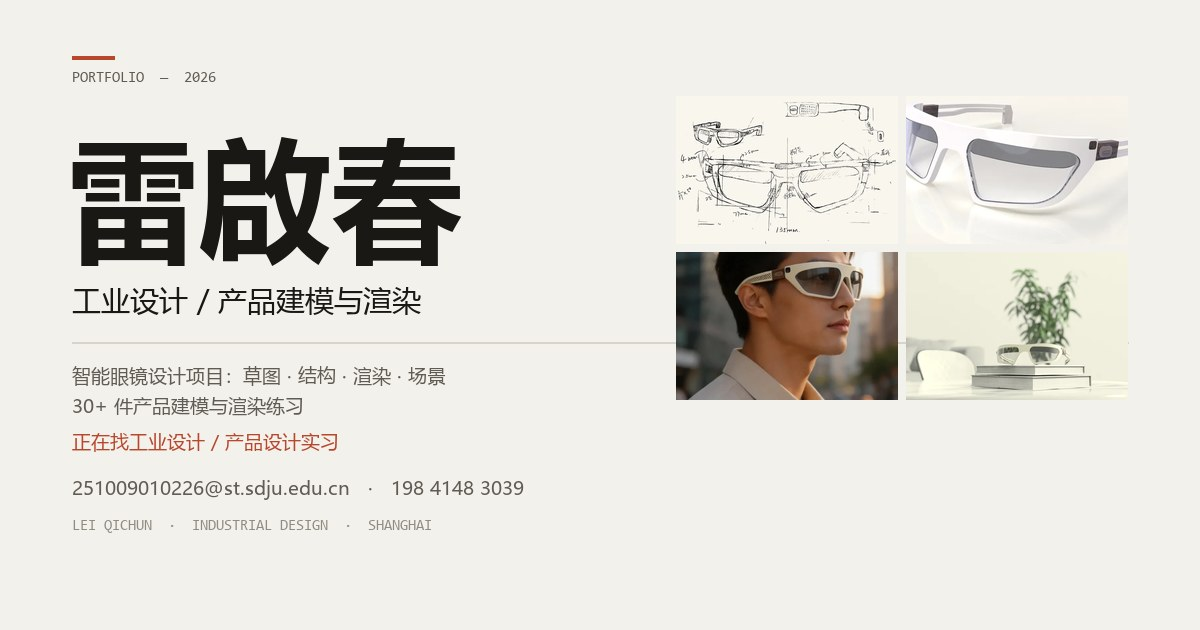
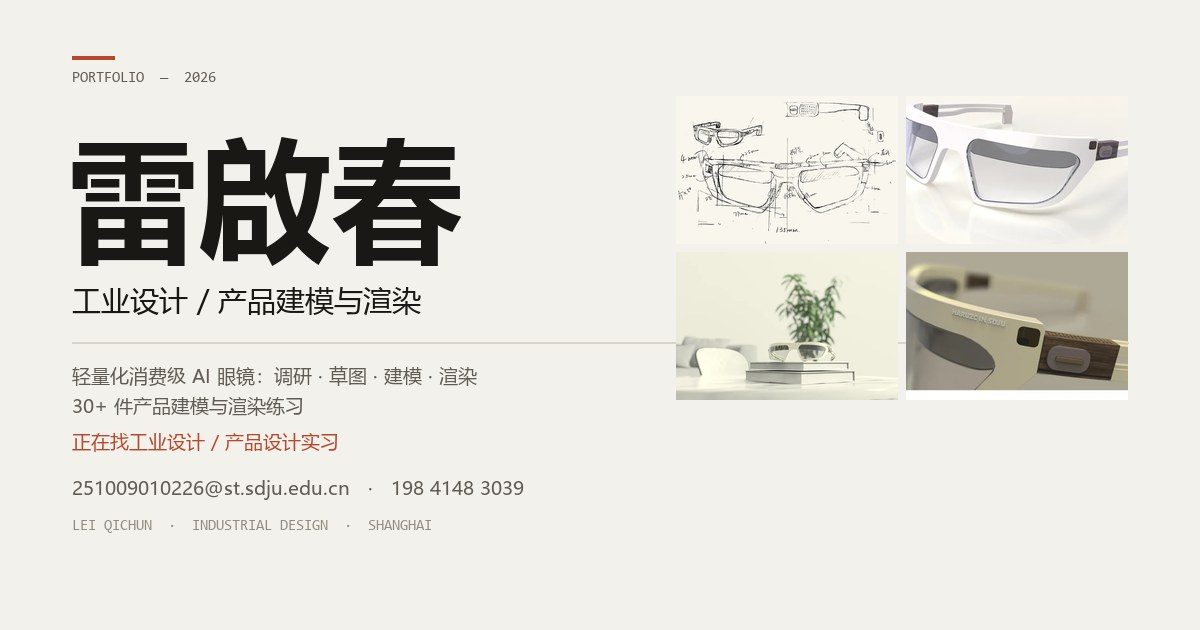
首屏改用场景图、补产品展板与调研四点、关于按钮改为邮箱

Changed region(s): [[0.555, 0.3921, 0.9558, 0.6333], [0.0617, 0.573, 0.4008, 0.6333]]

diff --git a/index.html b/index.html
@@ -63,22 +63,24 @@
             <p>正在找工业设计 / 产品设计的实习机会。</p>
           </div>
           <div class="hero-actions">
-            <a class="btn" href="#project">看眼镜项目</a>
+            <a class="btn" href="#project">独立完成项目</a>
             <a class="hero-link" href="#renders">看产品练习 ↓</a>
           </div>
         </div>
 
         <figure class="hero-figure">
-          <img src="assets/img/proj-wear-1600.webp"
-               alt="智能眼镜佩戴场景渲染图"
-               width="819" height="1045">
-          <figcaption>一体化智能眼镜 · 场景渲染 · 2026</figcaption>
+          <img src="assets/img/hero-scene-1600.webp"
+               srcset="assets/img/hero-scene-800.webp 800w, assets/img/hero-scene-1600.webp 1600w"
+               sizes="(max-width: 860px) 100vw, 46vw"
+               alt="轻量化 AI 眼镜放在书本上的场景渲染图"
+               width="2400" height="1600">
+          <figcaption>轻量化消费级 AI 眼镜 · 场景渲染 · 2026</figcaption>
         </figure>
       </div>
 
       <dl class="hero-stats">
         <div class="stat">
-          <dt>完整项目</dt>
+          <dt>独立完成项目</dt>
           <dd>1<small>个</small></dd>
         </div>
         <div class="stat">
@@ -110,19 +112,27 @@
 
       <div class="project-intro">
         <div class="project-title">
-          <h3>一体化智能眼镜</h3>
-          <p class="project-en">Smart Eyewear · 2026</p>
+          <h3>轻量化消费级 AI 眼镜</h3>
+          <p class="project-en">Lightweight Consumer AI Glasses · 2026</p>
           <dl class="meta-list">
-            <div><dt>角色</dt><dd>草图 / 建模 / 渲染</dd></div>
+            <div><dt>角色</dt><dd>独立完成（调研 / 草图 / 建模 / 渲染 / 展板）</dd></div>
             <div><dt>工具</dt><dd>Rhino · KeyShot · Photoshop</dd></div>
-            <div><dt>输出</dt><dd>草图 3 · 结构 3 · 渲染 4 · 场景 4</dd></div>
+            <div><dt>输出</dt><dd>展板 1 · 草图 3 · 渲染 8</dd></div>
           </dl>
         </div>
         <div class="project-copy">
-          <p>目标是一只「不像电子产品」的智能眼镜：镜框一体成型，摄像头、扬声器阵列和触控模块都收进镜腿前段，正面只留一条镜片分割线和一颗摄像头。</p>
-          <p>草图阶段先把尺寸定死——镜腿 4mm / 2.5mm 厚、总宽 135mm、镜片倾角 20°，再进 Rhino 建曲面。渲染阶段把米白尼龙、深色镜片、木纹电子仓三种材质放在同一件产品上拉开层次。</p>
+          <p>一副给日常戴的 AI 眼镜。核心不是把功能堆上去，而是让它看起来像一副普通眼镜——设计理念是「无感融合」：轻量化、日常化、温润感、科技感，四条线要同时成立。</p>
+          <p>结构上把电池和计算单元从镜框挪到耳后，重心后移，减少鼻梁压力；镜腿做成左右功能分区的模块化结构，方便维修、升级和换色。CMF 用奶油白 / 暖沙打底，焦糖棕做季节限定，再加一点木制纹理压住数码感。</p>
+          <p>草图阶段先把尺寸定死——镜腿 4mm / 2.5mm 厚、总宽 135mm、镜片倾角 20°，再进 Rhino 建曲面，最后渲染、排版。</p>
         </div>
       </div>
+
+      <ul class="points">
+        <li><span>01</span><b>重心失衡</b><p>前重后轻，长时间佩戴压鼻梁。</p></li>
+        <li><span>02</span><b>外观同质</b><p>数码感太强，难融入日常穿搭。</p></li>
+        <li><span>03</span><b>贴合不足</b><p>没有针对亚洲脸型做人体工学优化。</p></li>
+        <li><span>04</span><b>配镜困难</b><p>近视人群难以适配，影响核心用户。</p></li>
+      </ul>
 
       <!-- 草图 -->
       <div class="stage">
@@ -210,6 +220,39 @@
         </div>
       </div>
 
+      <!-- 展板 -->
+      <div class="stage">
+        <div class="stage-head">
+          <span class="stage-num">05</span>
+          <h4>展板</h4>
+          <p>把调研、结构、CMF 和渲染收进一张 A2 版面。</p>
+        </div>
+        <div class="stage-grid">
+          <figure class="fg sp-6 r-3x4 is-contain">
+            <img src="assets/img/proj-board-1600.webp"
+                 srcset="assets/img/proj-board-800.webp 800w, assets/img/proj-board-1600.webp 1600w"
+                 sizes="(max-width: 860px) 100vw, 48vw"
+                 alt="轻量化消费级 AI 眼镜产品展板：调研需求、结构与 CMF 说明、设计理念"
+                 loading="lazy" decoding="async">
+          </figure>
+          <div class="stage-aside sp-6">
+            <h5>版面内容</h5>
+            <ul>
+              <li><span>01</span>调研需求：四个核心痛点</li>
+              <li><span>02</span>结构：重心后移 + 模块化镜腿</li>
+              <li><span>03</span>CMF：奶油白 / 焦糖棕 / 木纹</li>
+              <li><span>04</span>设计说明：无感融合</li>
+            </ul>
+            <div class="swatches">
+              <span><i style="background:#ebe4d2"></i>奶油白</span>
+              <span><i style="background:#b98a55"></i>焦糖棕</span>
+              <span><i style="background:#6d4c34"></i>木纹</span>
+            </div>
+            <p class="stage-aside-note">点开展板可以看大图，上面的尺寸和说明都能读清。</p>
+          </div>
+        </div>
+      </div>
+
       <p class="project-close">这一版下来最大的收获是：曲面在反复改尺寸的时候最容易塌。现在做新东西会先把白模和正投影过一遍，再动材质。</p>
     </div>
   </section>
@@ -276,7 +319,7 @@
 
         <div class="about-contact">
           <a class="btn" href="mailto:251009010226@st.sdju.edu.cn">写邮件给我</a>
-          <a class="btn btn-ghost" href="tel:+8619841483039">198 4148 3039</a>
+          <a class="btn btn-ghost" href="mailto:251009010226@st.sdju.edu.cn">251009010226@st.sdju.edu.cn</a>
         </div>
       </div>
 

diff --git a/assets/css/style.css b/assets/css/style.css
@@ -170,9 +170,9 @@ ul, ol { margin: 0; padding: 0; list-style: none; }
 
 .hero-main {
   display: grid;
-  grid-template-columns: minmax(0, 1.1fr) minmax(0, .9fr);
+  grid-template-columns: minmax(0, 1.06fr) minmax(0, .94fr);
   gap: clamp(28px, 4.4vw, 64px);
-  align-items: end;
+  align-items: center;
   margin-top: clamp(24px, 3.4vw, 40px);
 }
 .hero-title {
@@ -214,9 +214,9 @@ ul, ol { margin: 0; padding: 0; list-style: none; }
 .hero-figure img {
   width: 100%;
   height: auto;
-  aspect-ratio: 4 / 5;
+  aspect-ratio: 3 / 2;
   object-fit: cover;
-  object-position: center top;
+  object-position: center;
   background: var(--paper-alt);
 }
 .hero-figure figcaption {
@@ -358,6 +358,25 @@ ul, ol { margin: 0; padding: 0; list-style: none; }
 }
 .project-copy p + p { margin-top: 14px; }
 
+/* 调研四点 */
+.points {
+  display: grid;
+  grid-template-columns: repeat(4, minmax(0, 1fr));
+  gap: 20px clamp(16px, 2vw, 32px);
+  margin-bottom: clamp(34px, 4vw, 56px);
+  padding-top: 18px;
+  border-top: 1px solid var(--line);
+}
+.points li { display: grid; gap: 4px; }
+.points span {
+  font-family: var(--mono);
+  font-size: 10.5px;
+  letter-spacing: .1em;
+  color: var(--accent);
+}
+.points b { font-size: 14.5px; font-weight: 600; letter-spacing: -0.01em; }
+.points p { font-size: 13px; line-height: 1.65; color: var(--muted); }
+
 /* ---------- 阶段 ---------- */
 .stage + .stage { margin-top: clamp(40px, 5vw, 72px); }
 .stage-head {
@@ -408,14 +427,65 @@ ul, ol { margin: 0; padding: 0; list-style: none; }
 .r-16x9 { aspect-ratio: 16 / 9; }
 .r-3x2 { aspect-ratio: 3 / 2; }
 .r-4x5 { aspect-ratio: 4 / 5; }
+.r-3x4 { aspect-ratio: 3 / 4; }
 .r-1x1 { aspect-ratio: 1 / 1; }
 .r-wide { aspect-ratio: 3.6 / 1; }
 
 .sp-4 { grid-column: span 4; }
 .sp-5 { grid-column: span 5; }
+.sp-6 { grid-column: span 6; }
 .sp-7 { grid-column: span 7; }
 .sp-8 { grid-column: span 8; }
 .sp-12 { grid-column: span 12; }
+
+/* 展板旁的文字栏 */
+.stage-aside {
+  padding-top: 16px;
+  border-top: 1px solid var(--line);
+}
+.stage-aside h5 {
+  font-family: var(--mono);
+  font-size: 10.5px;
+  font-weight: 400;
+  letter-spacing: .14em;
+  text-transform: uppercase;
+  color: var(--muted-light);
+}
+.stage-aside ul { margin-top: 14px; }
+.stage-aside li {
+  display: flex;
+  gap: 12px;
+  padding: 11px 0;
+  border-bottom: 1px solid var(--line);
+  font-size: 14px;
+  color: var(--ink-soft);
+}
+.stage-aside li span {
+  font-family: var(--mono);
+  font-size: 10.5px;
+  color: var(--accent);
+  padding-top: 3px;
+}
+.stage-aside-note { margin-top: 14px; font-size: 13px; color: var(--muted); }
+
+.swatches {
+  display: flex;
+  gap: 18px;
+  margin-top: 20px;
+}
+.swatches span {
+  display: flex;
+  flex-direction: column;
+  gap: 7px;
+  font-size: 12px;
+  color: var(--muted);
+}
+.swatches i {
+  display: block;
+  width: 46px;
+  height: 30px;
+  border: 1px solid rgba(25, 24, 20, .1);
+}
 
 .project-close {
   margin-top: clamp(32px, 4vw, 56px);
@@ -836,13 +906,13 @@ body.lb-open { overflow: hidden; }
   .brand-sub, .head-cta { display: none; }
   .nav { font-size: 12.5px; gap: 14px; }
   .hero-main { grid-template-columns: minmax(0, 1fr); gap: 26px; align-items: start; }
-  .hero-figure img { aspect-ratio: 4 / 5; }
+  .hero-figure img { aspect-ratio: 3 / 2; }
   .hero-stats { grid-template-columns: repeat(3, minmax(0, 1fr)); gap: 18px 14px; }
   .stat-contact { grid-column: 1 / -1; }
   .stat-contact dd { flex-direction: row; flex-wrap: wrap; gap: 0 18px; }
   .sec-head { flex-direction: column; align-items: flex-start; gap: 6px; }
   .sec-note { text-align: left; }
-  .sp-4, .sp-5, .sp-7, .sp-8, .sp-12 { grid-column: span 12; }
+  .sp-4, .sp-5, .sp-6, .sp-7, .sp-8, .sp-12 { grid-column: span 12; }
   .r-wide { aspect-ratio: 3 / 1; }
   .pairs { grid-template-columns: minmax(0, 1fr); }
   .clay-grid { grid-template-columns: repeat(3, minmax(0, 1fr)); }
@@ -865,6 +935,7 @@ body.lb-open { overflow: hidden; }
   .lb-tags { display: none; }
   .lb-img { max-height: 52vh; }
   .stage-grid { gap: 8px; }
+  .points { grid-template-columns: repeat(2, minmax(0, 1fr)); gap: 16px 18px; }
   .pairs { gap: 26px; }
 }
 

diff --git a/工具/build_og.py b/工具/build_og.py
@@ -40,14 +40,14 @@ d.text((pad, 280), "工业设计 / 产品建模与渲染", font=f_role, fill=ink
 
 d.line([(pad, 342), (W - pad, 342)], fill=line, width=2)
 
-d.text((pad, 362), "智能眼镜设计项目：草图 · 结构 · 渲染 · 场景", font=f_text, fill=muted)
+d.text((pad, 362), "轻量化消费级 AI 眼镜：调研 · 草图 · 建模 · 渲染", font=f_text, fill=muted)
 d.text((pad, 392), "30+ 件产品建模与渲染练习", font=f_text, fill=muted)
 d.text((pad, 428), "正在找工业设计 / 产品设计实习", font=f_text, fill=accent)
 d.text((pad, 474), "251009010226@st.sdju.edu.cn   ·   198 4148 3039", font=f_text, fill=muted)
 d.text((pad, 518), "LEI QICHUN  ·  INDUSTRIAL DESIGN  ·  SHANGHAI", font=f_mono, fill=light)
 
 # 右侧 2x2 项目图
-thumbs = ["proj-sketch-1", "proj-render-2", "proj-wear", "proj-scene"]
+thumbs = ["proj-sketch-1", "proj-render-2", "hero-scene", "proj-detail"]
 tw, th, gap = 222, 148, 8
 block_w = tw * 2 + gap
 left = W - pad - block_w

diff --git a/工具/build_assets.py b/工具/build_assets.py
@@ -21,6 +21,8 @@ import re
 
 from PIL import Image
 
+Image.MAX_IMAGE_PIXELS = None  # 展板原图是 9933x12862
+
 HERE = os.path.dirname(os.path.abspath(__file__))
 SITE = os.path.dirname(HERE)
 IMG = os.path.join(SITE, "assets", "img")
@@ -201,6 +203,13 @@ def main():
     if os.path.exists(scene_path):
         im = Image.open(scene_path).convert("RGB")
         save_pair(crop_ratio(im, 16 / 9), "proj-scene", max_w=2000)
+        # 首屏大图：同一张场景，3:2
+        save_pair(crop_ratio(im, 3 / 2), "hero-scene", max_w=2400)
+
+    board_path = os.path.join(ROOT, "产品展板.jpg")
+    if os.path.exists(board_path):
+        print("产品展板：")
+        save_pair(Image.open(board_path).convert("RGB"), "proj-board", max_w=1800)
 
     with open(os.path.join(SITE, "assets", "img-meta.json"), "w", encoding="utf-8") as f:
         json.dump(meta, f, ensure_ascii=False, indent=1)

diff --git a/README.md b/README.md
@@ -86,7 +86,14 @@ git push -u origin main
 
 ### 首屏
 
-姓名、电话、邮箱、GPA 等在 `index.html`，统计数字也在首屏的 `<dl class="hero-stats">` 里。
+姓名、电话、邮箱、GPA 等在 `index.html`，统计数字在 `<dl class="hero-stats">` 里。
+首屏大图在 `.hero-figure` 的 `src/srcset`，现在用的是 `hero-scene`（由 `场景图.png` 裁成 3:2 生成）。
+
+### 产品展板
+
+项目最后一节「05 展板」用的是 `assets/img/proj-board-1600.webp`，
+原图是根目录的 `产品展板.jpg`（9933×12862，CMYK），脚本会自动转 RGB 并缩放。
+换新版面时替换这张 jpg 再跑一次 `build_assets.py` 即可。
 
 ### 加图 / 换图
 
@@ -94,7 +101,7 @@ git push -u origin main
 
 ```powershell
 cd 工具
-python build_assets.py     # 统一裁切、去角标、压成 WebP
+python build_assets.py     # 统一裁切、去角标、压成 WebP（含场景图 / 产品展板）
 python build_og.py         # 重新生成分享预览图
 ```
 
